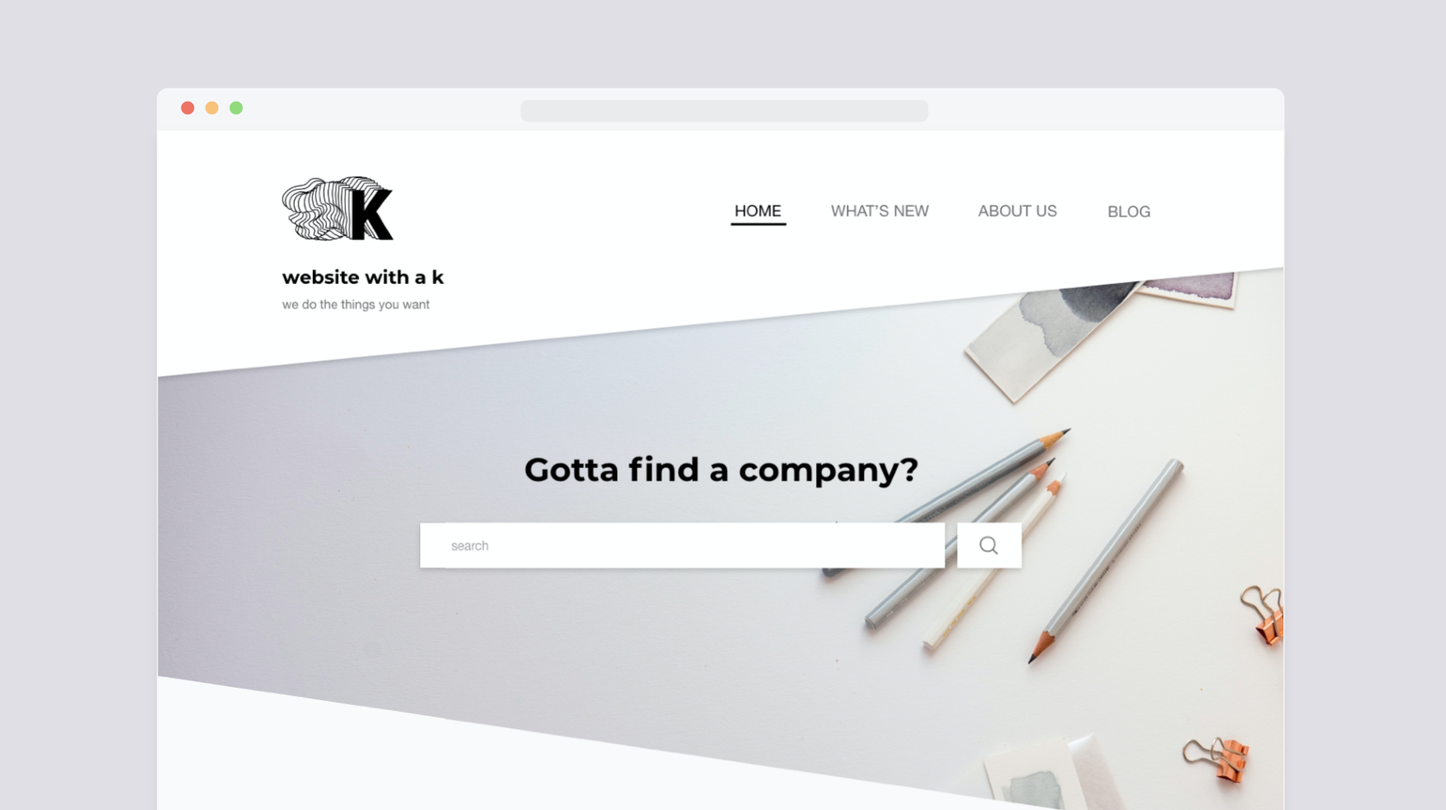
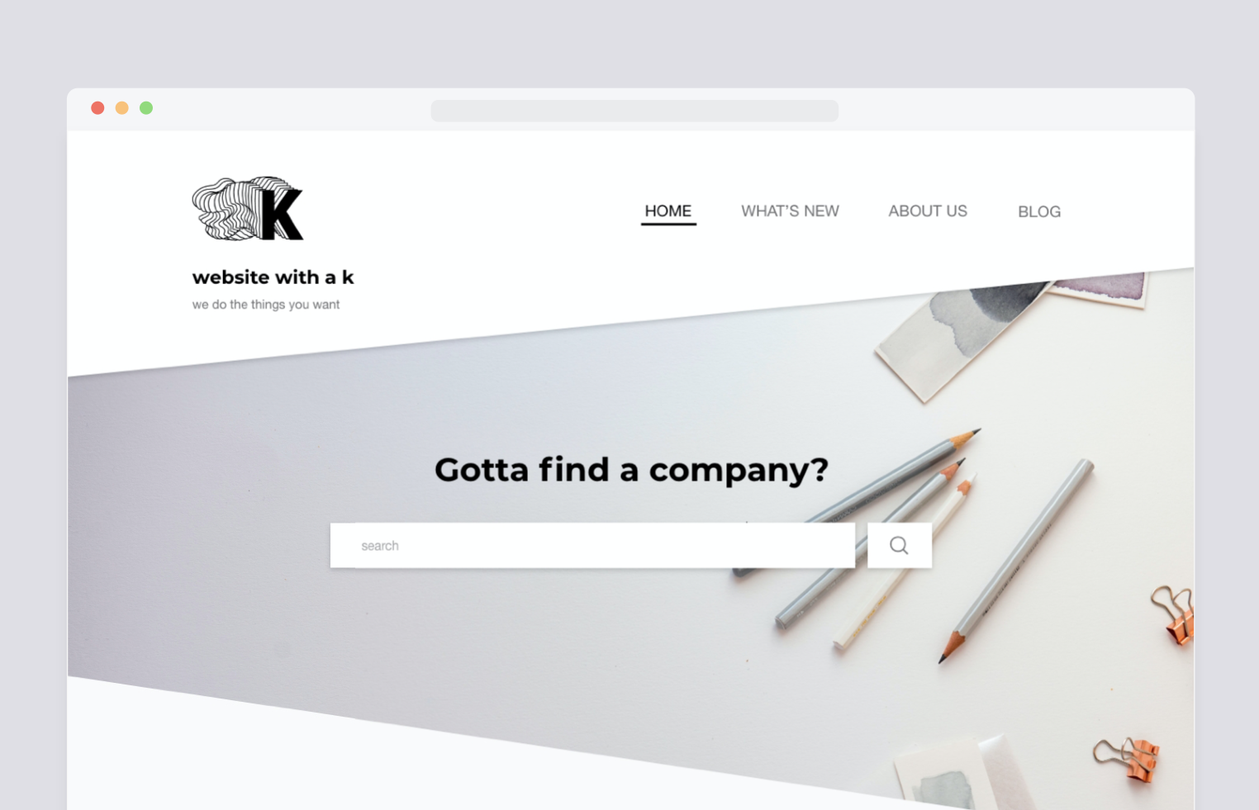
Add files via upload

diff --git a/css/global.css b/css/global.css
@@ -1,1 +1,1 @@
-*{margin:0;padding:0;box-sizing:border-box}:root{--black: #1b1c1e;--cyan: royalblue;--magenta: #f31969;--yellow: orange;--offwhite: #f2e8db;--white: #f4f4f4;--accent: grey;--dark-foreground: #2c2d30;--light-foreground: #fff;--border-color: var(--accent);--global-font-sans: -apple-system, system-ui, BlinkMacSystemFont, "Segoe UI", Roboto, Helvetica, Arial, sans-serif;--global-font-serif: "Georgia", serif;--global-font-primary: "bc-ludva", Helvetica, sans-serif;--global-font-secondary: "space-mono", monospace;--global-font-link: "space-mono", monospace;--global-font-primary: system-ui;--global-font-secondary: system-ui;--global-font-link: system-ui;--laptop: 4vmax;--tablet: 1.5em}html{background-color:var(--black);scroll-behavior:smooth;-webkit-text-size-adjust:100%;pointer-events:auto;max-width:2440px;font-size:14px;-moz-osx-font-smoothing:grayscale;-webkit-font-smoothing:antialiased !important;-webkit-text-size-adjust:100%;-moz-text-size-adjust:100%;text-size-adjust:100%}body{background-color:var(--background-color-primary);transition:background-color 1s ease;font-family:var(--global-font-sans);color:var(--font-color);line-height:1.4;outline:12px solid var(--black);outline-offset:-10px;border-radius:35px;overflow-x:hidden}@media(max-width: 768px){body{outline:6px solid var(--black);outline-offset:-5px;border-radius:20px}}header{z-index:100;width:100%;padding:var(--laptop);padding-right:2em;top:0}header .site-title{margin-bottom:1rem}header .active-title{margin-left:1rem}@media(max-width: 768px){header{padding:var(--tablet)}}@media(max-width: 425px){header{position:relative}header .site-title:after{content:"."}header .active-title{display:none}}nav{justify-content:space-between;margin-bottom:1em}nav ul a{font-family:var(--global-font-link);text-transform:capitalize;font-weight:400;padding-bottom:.25rem}nav ul li{list-style-type:none;display:inline-block;padding-right:1em;line-height:2}.display,h1,h2,h3,h4,h5,h6{font-family:var(--global-font-primary);font-weight:400}.display,h1,.h1,h2,.h2,h3,.h3{line-height:1.2}h1,.h1{font-size:3.999rem}@media(max-width: 768px){h1,.h1{font-size:56px}}.display{font-size:94px}@media(max-width: 768px){.display{font-size:56px}}h2,.h2{font-size:2.999rem}@media(max-width: 768px){h2,.h2{font-size:36px}}h3,.h3{font-size:2.333rem}@media(max-width: 768px){h3,.h3{font-size:28px}}h4,.h4,h5,.h5,h6,.h6{font-size:2rem;letter-spacing:.5px;text-transform:uppercase}@media(max-width: 768px){h4,.h4,h5,.h5,h6,.h6{font-size:24px}}h5,.h5{font-size:1.666rem}@media(max-width: 768px){h5,.h5{font-size:20px}}h6,.h6{font-size:1.166rem}@media(max-width: 768px){h6,.h6{font-size:14px}}p,q{font-family:var(--global-font-secondary);margin:1rem 0;max-width:625px}p:first-child,q:first-child{margin-top:0}p:last-child,q:last-child{margin-bottom:0}a{cursor:pointer !important;text-decoration:none;font-family:var(--global-font-link);font-weight:400;margin-right:1em}a:before{content:"   →";color:rgba(0,0,0,0);font-family:var(--global-font-sans);margin-right:-1em;transition:.5s all}a:hover{margin-right:0}a:hover:before{color:inherit;margin-right:0}@media(max-width: 768px){a{margin-right:0}a:before{display:none}}a .huge{white-space:nowrap;font-size:15vmin;font-weight:700;text-transform:uppercase;font-family:var(--global-font-primary);margin-right:-1rem;margin-top:-0.15em}a .huge:hover{margin-left:1rem}a,p,li{-webkit-user-select:none;-moz-user-select:none;user-select:none}q{quotes:"“" "”" "“" "”";font-family:var(--global-font-serif);letter-spacing:.5px;font-style:italic;display:block;padding:1.5em}q::before,q::after{font-family:inherit;display:block;margin-left:-0.25rem;font-size:2.999rem;line-height:0;padding:1rem 0;font-style:normal}q::before{content:open-quote;margin-bottom:-0.5rem}q::after{content:no-close-quote;display:none}q.noquote::before,q.noquote::after{display:none}h1,h2,h3,h4,h5,h6,p,q,a{transition:all .5s;overflow:hidden}img{-o-object-fit:cover;object-fit:cover;height:auto;max-height:100%;border-radius:4px}.paren::before,.paren::after{content:"(";margin:0 2px}.paren::after{content:")"}@media(prefers-reduced-motion: no-preference){div>*,h1,a,p,img{animation-duration:1.5s;animation-timing-function:ease;animation-fill-mode:forwards;animation-name:moveInUp}}@keyframes moveInUp{0%{transform:translateY(-1em);opacity:0}100%{transform:translateY(0);opacity:1}}.site-title{font-family:var(--global-font-link);font-weight:700;text-transform:capitalize}.backtotop:before{content:"↑\a";display:block;font-family:var(--global-font-sans);white-space:pre-wrap;color:var(--border-color);margin:unset}.backtotop{color:inherit;border:1px solid var(--border-color);position:fixed;bottom:0;right:0;height:3rem;width:3rem;margin:var(--tablet);padding:.75em;font-size:1em;text-align:center;transition:.5s;border-radius:100%;z-index:100}.backtotop:hover{background-color:var(--black);margin:var(--tablet)}.backtotop:hover:before{color:#fff;mix-blend-mode:difference}section,.section{position:relative;width:100%;padding:var(--laptop);padding-top:calc(2*var(--laptop))}section .section-inner,.section .section-inner{padding-top:var(--tablet)}section .section-narrow,.section .section-narrow{max-width:920px;margin:0 auto}section .cover>img,.section .cover>img{width:100%;max-height:90vh}@media(max-width: 768px){section,.section{padding:var(--tablet);padding-top:calc(3.5*var(--tablet))}section .cover,.section .cover{margin:auto -0.5em}}details{height:calc(3.5*var(--tablet))}details summary{cursor:pointer;width:-moz-max-content;width:max-content}@media(min-width: 425px){details[open] summary{display:none}}.hero{padding:var(--laptop);padding-top:15em;padding-bottom:5em;position:relative;z-index:99}.hero h1,.hero p{inline-size:auto;overflow-wrap:break-word}.heroimg{padding:var(--laptop);padding-top:10em;padding-bottom:0}.heroimg img{width:100%;max-height:85vh}@media(max-width: 768px){.hero,.heroimg{padding:var(--tablet);padding-top:7em}}@media(max-width: 425px){.hero,.heroimg{padding-top:1em}}.submenu{position:sticky;position:-webkit-sticky;top:0;margin:0 var(--laptop);padding:2em 0;z-index:100}.submenu a{text-transform:auto;letter-spacing:1px;font-size:12px}@media(max-width: 768px){.submenu{margin:0 1.5em;padding:1rem 0}.submenu .button{margin-top:auto;margin:0 .25em .5em 0}}.gallery{padding:0;padding:3vmax;padding-top:2em}.gallery *>img{width:100%;margin:0 auto}@media(max-width: 768px){.gallery *>img{padding:0;border-radius:0}}.gallery div{padding:0;margin:0;margin-right:0 -1rem}.gallery div *:last-child{margin-bottom:0}@media(max-width: 768px){.gallery div *{margin:0}}@media(max-width: 768px){.gallery{padding:0}}.portfolio-container{margin:0 -1vmax;margin-top:2em;display:grid;gap:2vmax;grid-template-columns:auto auto auto}@media(max-width: 768px){.portfolio-container{display:unset;display:block;margin:0 -2vmax;margin-top:2em}}.portfolio-container div,.portfolio-container img{width:100%;max-height:100%}.portfolio-container div a,.portfolio-container img a{all:revert}.portfolio-container div a:before,.portfolio-container img a:before{display:none !important}.portfolio-container div a:after,.portfolio-container img a:after{content:"Case Study ↗";display:inline;position:absolute;left:1vmax;z-index:98;display:flex;margin-top:calc(-2vmax - 4em);border:1px solid var(--border);border-radius:20px;padding:.5em 1em;background-color:var(--foreground-color);font-family:var(--global-font-secondary);text-align:center;font-size:12px;color:var(--border-color);transition:.5s}@media(min-width: 768px){.portfolio-container div img,.portfolio-container img img{margin-bottom:1.9vmax}}@media(max-width: 768px){.portfolio-container div,.portfolio-container img{left:1rem}}.notebox>div{background-color:var(--foreground-color);margin:.25em .25em 0 0;padding:1em;border:1px solid var(--white);border-radius:15px;flex-basis:320px;flex-grow:1;display:flex;flex-direction:column;justify-content:space-between;transition:all .25s}.notebox>div img{align-self:flex-end;width:100%}.notebox>div img,.notebox>div q{max-width:625px}.notebox>div a{margin-top:1em;z-index:99}.notebox>div q{background-color:unset}.notebox>div p:first-of-type{-moz-text-align-last:justify;text-align-last:justify}.notebox>div:nth-of-type(6n+1){flex-basis:50%}.notebox>div:after{content:"";display:block;position:absolute;top:0;right:0;bottom:0;left:0;border-radius:14px;z-index:98;background-color:rgba(0,0,0,0);mix-blend-mode:difference;transition:.25s all ease}.notebox>div:hover a{color:var(--offwhite)}.notebox>div:hover:after{background-color:var(--white)}.notebox>div.flex-start{justify-content:flex-start}.button,summary{display:inline-block;border:1px solid var(--border-color);border-radius:20px;padding:.5em 1em;margin:0;margin-left:.5em;margin-bottom:1em;background-color:var(--background-color-primary);align-self:flex-start;font-family:var(--global-font-sans);text-align:center;font-size:.85rem}.button:hover,summary:hover{padding-right:-1em;color:var(--background-color-primary);background:var(--border-color)}.button:first-of-type,summary:first-of-type{margin-left:0}.halves>*{width:49.75%;margin-bottom:.5rem}@media(max-width: 768px){.keephalf>*{width:49.75% !important}.keephalf>*:last-child{margin:0;margin-bottom:.5rem}.keephalf>* a{width:49%}.keephalf>* a:last-child{margin:0;margin-bottom:.5rem}}.thirds>*{width:33.1%}.fourths>*{width:24.75%}.fifths>*{width:19.75%}.sixths>*{width:16.55%}.uneven>*{width:32%}.uneven>*:last-child{width:65%}@media(max-width: 768px){.uneven>*:last-child{width:100%}}.halves,.thirds,.fourths,.fifths,.sixths,.uneven{height:100%;margin:0 auto;flex-direction:row;justify-content:space-between}.halves a,.thirds a,.fourths a,.fifths a,.sixths a,.uneven a{margin-bottom:0}.halves img,.thirds img,.fourths img,.fifths img,.sixths img,.uneven img{height:unset;width:100%}@media(max-width: 768px){.halves,.thirds,.fourths,.fifths,.sixths,.uneven{flex-wrap:wrap}.halves img,.halves a,.halves div,.halves q,.thirds img,.thirds a,.thirds div,.thirds q,.fourths img,.fourths a,.fourths div,.fourths q,.fifths img,.fifths a,.fifths div,.fifths q,.sixths img,.sixths a,.sixths div,.sixths q,.uneven img,.uneven a,.uneven div,.uneven q{width:100%}}.thirds>*,.fourths>*,.fifths>*,.sixths>*{margin-bottom:.5rem}@media(max-width: 1080px){.thirds>*,.fourths>*,.fifths>*,.sixths>*{width:49.75%}.thirds>*:last-child,.fourths>*:last-child,.fifths>*:last-child,.sixths>*:last-child{margin:0;margin-bottom:.5rem}}.grid-container{display:grid;grid-template-columns:repeat(auto-fit, minmax(280px, auto));grid-auto-rows:minmax(50px, 1fr);grid-auto-flow:dense;grid-gap:1em}.grid-container img{width:100%;margin:0 auto;max-height:80vh}.spanall{grid-row:1;grid-column:1/-1}.span2{grid-column-end:span 2;grid-row-end:span 2}.grid-container{margin-top:2em}.halves{grid-template-columns:auto auto}.thirds{grid-template-columns:auto auto auto;grid-auto-flow:row dense}.flex-row{display:flex;flex-direction:row;flex-wrap:wrap}.flex-column{display:flex;flex-direction:column;justify-content:center}.nowrap{flex-wrap:nowrap}.justify-between{justify-content:space-between}.justify-center{justify-content:center;text-align:center}.justify-around{justify-content:space-around}.justify-even{justify-content:space-evenly;text-align:center}.justify-end{justify-content:flex-end}.flex-start{flex-wrap:unset;align-items:flex-start;align-content:flex-start;justify-content:flex-start}.align-center{align-items:center;align-content:center}.stretch{align-items:stretch}.fixed-bottom{position:fixed;bottom:0}.align-bottom{align-self:flex-end}.content-bottom{align-content:flex-end}@media(max-width: 425px){.content-bottom{align-content:space-between}}.float-right{float:right !important}@media(max-width: 768px){.reverseorder{order:2}}@media(max-width: 768px){.media-center{justify-content:center;text-align:center}}.upper{text-transform:uppercase}.lower{all:revert;text-decoration:none;text-transform:lowercase;font-family:var(--global-font-primary)}.color{color:var(--font-color) !important}.full{min-height:100vh}.twothirds{height:75vh}.half{height:50vh;overflow:hidden}.quarter{height:25vh}@media(max-width: 768px){.autoheight,.full,.twothirds{height:auto}}@media(max-height: 768px){.autoheight,.full,.twothirds{height:auto}}@media(max-width: 425px){.autoheight,.full,.twothirds{min-height:revert}}.sticky{position:sticky;position:-webkit-sticky;top:0;z-index:99}.arrowbefore:before{content:"←  "}.arrowafterbefore:before{content:"   →"}.arrowafter:after{content:"   →"}.arrowup:before{content:"↑"}.arrowdown:after{content:"↓"}.arrowbefore:before,.arrowafter:after,.arrowafterbefore:before,.arrowdown:after,.arrowdiag:after{font-family:var(--global-font-sans);font-weight:inherit}.arrowdiag:after{content:" ↗ "}.noarrow>*>a,.noarrow>a,a.noarrow,p>a{margin-right:unset !important}.noarrow>*>a:before,.noarrow>a:before,a.noarrow:before,p>a:before{display:none !important}.noarrow>*>a:hover,.noarrow>a:hover,a.noarrow:hover,p>a:hover{color:var(--font-color)}.separator{display:flex;flex-direction:column;justify-content:center;border-bottom:1px solid var(--border-color);width:100%;margin:1em 0}.submenuseparator{border-bottom:1px solid var(--border-color);margin:0 var(--laptop);display:flex;flex-direction:row}@media(max-width: 768px){.submenuseparator{margin:var(--tablet)}}.outline{outline:1px solid var(--font-color)}footer,#footer{width:100%;position:relative;bottom:0;padding-bottom:5em;padding:0 var(--laptop)}footer *,#footer *{color:var(--font-color)}footer p,footer a,#footer p,#footer a{letter-spacing:1px}footer .global-footer-container,#footer .global-footer-container{margin:0 auto;text-align:left}footer .global-footer-container .site-title,#footer .global-footer-container .site-title{font-size:1.166rem;margin-bottom:-1em;flex-wrap:nowrap;align-items:baseline}footer .global-footer-container .site-title p,#footer .global-footer-container .site-title p{margin-right:1em;min-width:-moz-max-content;min-width:max-content}footer .global-footer-container nav,#footer .global-footer-container nav{justify-content:flex-end}footer .global-footer-container .footer-links,#footer .global-footer-container .footer-links{justify-content:flex-start}footer .global-footer-container .section-inner:first-of-type,#footer .global-footer-container .section-inner:first-of-type{padding-left:0}@media(max-width: 768px){footer .global-footer-container,#footer .global-footer-container{flex-flow:column wrap}footer .global-footer-container .site-title,#footer .global-footer-container .site-title{margin-bottom:1em}footer .global-footer-container .footer-links>li,#footer .global-footer-container .footer-links>li{display:block;padding-bottom:.5rem;text-align:right}}footer .copyright,#footer .copyright{margin:0;font-size:.916rem}@media(max-width: 768px){footer,#footer{justify-content:center;margin-top:1em;padding-left:1em;padding-right:1em;min-height:100vh;justify-content:space-around}footer .home-footer,footer .contacts,footer .copyright,#footer .home-footer,#footer .contacts,#footer .copyright{max-width:520px;margin:0 auto}footer .home-footer .social-links a,footer .contacts .social-links a,footer .copyright .social-links a,#footer .home-footer .social-links a,#footer .contacts .social-links a,#footer .copyright .social-links a{margin:auto;padding:0 .5rem}footer .copyright,#footer .copyright{margin:0}}@media(max-width: 425px){footer .global-footer-container,footer div,#footer .global-footer-container,#footer div{width:100%}}.color-cyan{--background-color-primary: var(--cyan)}.color-mag{--background-color-primary: var(--magenta)}.color-yellow{--background-color-primary: var(--yellow);--border-color: var(--black)}.color-black,.color-cyan,.color-mag{--font-color: var(--offwhite);--border-color: var(--offwhite)}.color-black h1,.color-black h2,.color-black h3,.color-black h4,.color-black h5,.color-black h6,.color-black a,.color-black p,.color-black q,.color-cyan h1,.color-cyan h2,.color-cyan h3,.color-cyan h4,.color-cyan h5,.color-cyan h6,.color-cyan a,.color-cyan p,.color-cyan q,.color-mag h1,.color-mag h2,.color-mag h3,.color-mag h4,.color-mag h5,.color-mag h6,.color-mag a,.color-mag p,.color-mag q{color:var(--font-color)}.color-cyan,.color-mag,.color-yellow{--foreground-color: var(--background-color-primary)}.color-cyan h1,.color-cyan h2,.color-cyan h3,.color-cyan h4,.color-cyan h5,.color-cyan h6,.color-cyan a,.color-cyan p,.color-cyan q,.color-mag h1,.color-mag h2,.color-mag h3,.color-mag h4,.color-mag h5,.color-mag h6,.color-mag a,.color-mag p,.color-mag q,.color-yellow h1,.color-yellow h2,.color-yellow h3,.color-yellow h4,.color-yellow h5,.color-yellow h6,.color-yellow a,.color-yellow p,.color-yellow q{color:var(--font-color)}.color-black{--background-color-primary: var(--black);--foreground-color: var(--dark-foreground);--border-color: var(--accent)}.color-black a{color:var(--accent)}.color-white{--background-color-primary: var(--white);--foreground-color: var(--light-foreground);--font-color: var(--black)}.color-white p,.color-white q{color:var(--font-color)}.color-white a{color:var(--accent)}.accent{color:var(--accent) !important}.box-shadow{box-shadow:#d3d3d3 0px 0px 2em}.blend{mix-blend-mode:difference}.multiply{mix-blend-mode:multiply}.hide{display:none}@media(max-width: 768px){.mobilehide{display:none}}.transparent{opacity:0}
+*{margin:0;padding:0;box-sizing:border-box}:root{--black: #1b1c1e;--cyan: royalblue;--magenta: #f31969;--yellow: orange;--offwhite: #f2e8db;--white: #f4f4f4;--accent: grey;--dark-foreground: #2c2d30;--light-foreground: #fff;--border-color: var(--accent);--global-font-sans: -apple-system, system-ui, BlinkMacSystemFont, "Segoe UI", Roboto, Helvetica, Arial, sans-serif;--global-font-serif: "Georgia", serif;--global-font-primary: "bc-ludva", Helvetica, sans-serif;--global-font-secondary: "space-mono", monospace;--global-font-link: "space-mono", monospace;--global-font-primary: system-ui;--global-font-secondary: system-ui;--global-font-link: system-ui;--laptop: 4vmax;--tablet: 1.5em}html{background-color:var(--black);scroll-behavior:smooth;-webkit-text-size-adjust:100%;pointer-events:auto;max-width:2440px;font-size:14px;-moz-osx-font-smoothing:grayscale;-webkit-font-smoothing:antialiased !important;-webkit-text-size-adjust:100%;-moz-text-size-adjust:100%;text-size-adjust:100%}body{background-color:var(--background-color-primary);transition:background-color 1s ease;font-family:var(--global-font-sans);color:var(--font-color);line-height:1.4;outline:12px solid var(--black);outline-offset:-10px;border-radius:35px;overflow-x:hidden}@media(max-width: 768px){body{outline:unset;border-radius:0}}header{z-index:100;width:100%;padding:var(--laptop);padding-right:2em;padding-top:calc(var(--laptop) + var(--tablet));top:0}header .site-title{margin-bottom:1rem}header .active-title{margin-left:1rem}@media(max-width: 768px){header{padding:var(--tablet);padding-top:var(--laptop)}}@media(max-width: 425px){header{position:relative}header .site-title:after{content:"."}header .active-title{display:none}}nav{justify-content:space-between;margin-bottom:1em}nav ul a{font-family:var(--global-font-link);text-transform:capitalize;font-weight:400;padding-bottom:.25rem}nav ul li{list-style-type:none;display:inline-block;padding-right:1em;line-height:2}.display,h1,h2,h3,h4,h5,h6{font-family:var(--global-font-primary);font-weight:400}.display,h1,.h1,h2,.h2,h3,.h3{line-height:1.2}h1,.h1{font-size:3.999rem}@media(max-width: 768px){h1,.h1{font-size:56px}}.display{font-size:94px}@media(max-width: 768px){.display{font-size:56px}}h2,.h2{font-size:2.999rem}@media(max-width: 768px){h2,.h2{font-size:36px}}h3,.h3{font-size:2.333rem}@media(max-width: 768px){h3,.h3{font-size:28px}}h4,.h4,h5,.h5,h6,.h6{font-size:2rem;letter-spacing:.5px;text-transform:uppercase}@media(max-width: 768px){h4,.h4,h5,.h5,h6,.h6{font-size:24px}}h5,.h5{font-size:1.666rem}@media(max-width: 768px){h5,.h5{font-size:20px}}h6,.h6{font-size:1.166rem}@media(max-width: 768px){h6,.h6{font-size:14px}}p,q{font-family:var(--global-font-secondary);margin:1rem 0;max-width:625px}p:first-child,q:first-child{margin-top:0}p:last-child,q:last-child{margin-bottom:0}a{cursor:pointer !important;text-decoration:none;font-family:var(--global-font-link);font-weight:400;margin-right:1em}a:before{content:"   →";color:rgba(0,0,0,0);font-family:var(--global-font-sans);margin-right:-1em;transition:.5s all}a:hover{margin-right:0}a:hover:before{color:inherit;margin-right:0}@media(max-width: 768px){a{margin-right:0}a:before{display:none}}a .huge{white-space:nowrap;font-size:15vmin;font-weight:700;text-transform:uppercase;font-family:var(--global-font-primary);margin-right:-1rem;margin-top:-0.15em}a .huge:hover{margin-left:1rem}a,p,li{-webkit-user-select:none;-moz-user-select:none;user-select:none}q{quotes:"“" "”" "“" "”";font-family:var(--global-font-serif);letter-spacing:.5px;font-style:italic;display:block;padding:1.5em}q::before,q::after{font-family:inherit;display:block;margin-left:-0.25rem;font-size:2.999rem;line-height:0;padding:1rem 0;font-style:normal}q::before{content:open-quote;margin-bottom:-0.5rem}q::after{content:no-close-quote;display:none}q.noquote::before,q.noquote::after{display:none}h1,h2,h3,h4,h5,h6,p,q,a{transition:all .5s;overflow:hidden}img{-o-object-fit:cover;object-fit:cover;height:auto;max-height:100%;border-radius:4px}.paren::before,.paren::after{content:"(";margin:0 2px}.paren::after{content:")"}@media(prefers-reduced-motion: no-preference){div>*,h1,a,p,img{animation-duration:1.5s;animation-timing-function:ease;animation-fill-mode:forwards;animation-name:moveInUp}}@keyframes moveInUp{0%{transform:translateY(-1em);opacity:0}100%{transform:translateY(0);opacity:1}}.site-title{font-family:var(--global-font-link);font-weight:700;text-transform:capitalize}.backtotop:before{content:"↑\a";display:block;font-family:var(--global-font-sans);white-space:pre-wrap;color:var(--border-color);margin:unset}.backtotop{color:inherit;border:1px solid var(--border-color);position:fixed;bottom:0;right:0;height:3rem;width:3rem;margin:var(--tablet);padding:.75em;font-size:1em;text-align:center;transition:.5s;border-radius:100%;z-index:100}.backtotop:hover{background-color:var(--black);margin:var(--tablet)}.backtotop:hover:before{color:#fff;mix-blend-mode:difference}section,.section{position:relative;width:100%;padding:var(--laptop);padding-top:calc(2*var(--laptop))}section .section-inner,.section .section-inner{padding-top:var(--tablet)}section .section-narrow,.section .section-narrow{max-width:920px;margin:0 auto}section .cover>img,.section .cover>img{width:100%;max-height:90vh}@media(max-width: 768px){section,.section{padding:var(--tablet);padding-top:calc(3.5*var(--tablet))}section .cover,.section .cover{margin:auto -0.5em}}details summary{cursor:pointer;width:-moz-max-content;width:max-content}@media(min-width: 425px){details[open] summary{display:none}}.hero{padding:var(--laptop);padding-top:10em;padding-bottom:5em;position:relative;z-index:99}.hero h1,.hero p{inline-size:auto;overflow-wrap:break-word}.heroimg{padding:var(--laptop);padding-top:10em;padding-bottom:0}.heroimg img{width:100%;max-height:85vh}@media(max-width: 768px){.hero,.heroimg{padding:var(--tablet);padding-top:7em}}@media(max-width: 425px){.hero,.heroimg{padding-top:1em}}.submenu{position:sticky;position:-webkit-sticky;top:0;margin:0 var(--laptop);padding:2em 0;z-index:100}.submenu a{text-transform:auto;letter-spacing:1px;font-size:12px}@media(max-width: 768px){.submenu{margin:0 1.5em;padding:1rem 0}.submenu .button{margin-top:auto;margin:0 .25em .5em 0}}.gallery{padding:0;padding:3vmax;padding-top:2em}.gallery *>img{width:100%;margin:0 auto}@media(max-width: 768px){.gallery *>img{padding:0;border-radius:0}}.gallery div{padding:0;margin:0;margin-right:0 -1rem}.gallery div *:last-child{margin-bottom:0}@media(max-width: 768px){.gallery div *{margin:0}}@media(max-width: 768px){.gallery{padding:0}}.portfolio-container{margin:0 -1vmax;margin-top:2em;display:grid;gap:2vmax;grid-template-columns:auto auto auto}@media(max-width: 768px){.portfolio-container{display:unset;display:block;margin:0 -2vmax;margin-top:2em}}.portfolio-container div,.portfolio-container img{width:100%;max-height:100%}.portfolio-container div a,.portfolio-container img a{all:revert}.portfolio-container div a:before,.portfolio-container img a:before{display:none !important}.portfolio-container div a:after,.portfolio-container img a:after{content:"Case Study ↗";display:inline;position:absolute;left:1vmax;z-index:98;display:flex;margin-top:calc(-2vmax - 4em);border:1px solid var(--border);border-radius:20px;padding:.5em 1em;background-color:var(--foreground-color);font-family:var(--global-font-secondary);text-align:center;font-size:12px;color:var(--border-color);transition:.5s}@media(min-width: 768px){.portfolio-container div img,.portfolio-container img img{margin-bottom:1.9vmax}}@media(max-width: 768px){.portfolio-container div,.portfolio-container img{left:1rem}}.notebox>div{background-color:var(--foreground-color);margin:.25em .25em 0 0;padding:1em;border:1px solid var(--white);border-radius:15px;flex-basis:320px;flex-grow:1;display:flex;flex-direction:column;justify-content:space-between;transition:all .25s}.notebox>div img{align-self:flex-end;width:100%}.notebox>div img,.notebox>div q{max-width:625px}.notebox>div a{margin-top:1em;z-index:99}.notebox>div q{background-color:unset}.notebox>div p:first-of-type{-moz-text-align-last:justify;text-align-last:justify}.notebox>div:nth-of-type(6n+1){flex-basis:50%}.notebox>div:after{content:"";display:block;position:absolute;top:0;right:0;bottom:0;left:0;border-radius:14px;z-index:98;background-color:rgba(0,0,0,0);mix-blend-mode:difference;transition:.25s all ease}.notebox>div:hover a{color:var(--offwhite)}.notebox>div:hover:after{background-color:var(--white)}.notebox>div.flex-start{justify-content:flex-start}.button,summary{display:inline-block;border:1px solid var(--border-color);border-radius:20px;padding:.5em 1em;margin:0;margin-left:.5em;margin-bottom:1em;background-color:var(--background-color-primary);align-self:flex-start;font-family:var(--global-font-sans);text-align:center;font-size:.85rem}.button:hover,summary:hover{padding-right:-1em;color:var(--background-color-primary);background:var(--border-color)}.button:first-of-type,summary:first-of-type{margin-left:0}.halves>*{width:49.75%;margin-bottom:.5rem}@media(max-width: 768px){.keephalf>*{width:49.75% !important}.keephalf>*:last-child{margin:0;margin-bottom:.5rem}.keephalf>* a{width:49%}.keephalf>* a:last-child{margin:0;margin-bottom:.5rem}}.thirds>*{width:33.1%}.fourths>*{width:24.75%}.fifths>*{width:19.75%}.sixths>*{width:16.55%}.uneven>*{width:32%}.uneven>*:last-child{width:65%}@media(max-width: 768px){.uneven>*:last-child{width:100%}}.halves,.thirds,.fourths,.fifths,.sixths,.uneven{height:100%;margin:0 auto;flex-direction:row;justify-content:space-between}.halves a,.thirds a,.fourths a,.fifths a,.sixths a,.uneven a{margin-bottom:0}.halves img,.thirds img,.fourths img,.fifths img,.sixths img,.uneven img{height:unset;width:100%}@media(max-width: 768px){.halves,.thirds,.fourths,.fifths,.sixths,.uneven{flex-wrap:wrap}.halves img,.halves a,.halves div,.halves q,.thirds img,.thirds a,.thirds div,.thirds q,.fourths img,.fourths a,.fourths div,.fourths q,.fifths img,.fifths a,.fifths div,.fifths q,.sixths img,.sixths a,.sixths div,.sixths q,.uneven img,.uneven a,.uneven div,.uneven q{width:100%}}.thirds>*,.fourths>*,.fifths>*,.sixths>*{margin-bottom:.5rem}@media(max-width: 1080px){.thirds>*,.fourths>*,.fifths>*,.sixths>*{width:49.75%}.thirds>*:last-child,.fourths>*:last-child,.fifths>*:last-child,.sixths>*:last-child{margin:0;margin-bottom:.5rem}}.grid-container{display:grid;grid-template-columns:repeat(auto-fit, minmax(280px, auto));grid-auto-rows:minmax(50px, 1fr);grid-auto-flow:dense;grid-gap:1em}.grid-container img{width:100%;margin:0 auto;max-height:80vh}.spanall{grid-row:1;grid-column:1/-1}.span2{grid-column-end:span 2;grid-row-end:span 2}.grid-container{margin-top:2em}.halves{grid-template-columns:auto auto}.thirds{grid-template-columns:auto auto auto;grid-auto-flow:row dense}.flex-row{display:flex;flex-direction:row;flex-wrap:wrap}.flex-column{display:flex;flex-direction:column;justify-content:center}.nowrap{flex-wrap:nowrap}.justify-between{justify-content:space-between}.justify-center{justify-content:center;text-align:center}.justify-around{justify-content:space-around}.justify-even{justify-content:space-evenly;text-align:center}.justify-end{justify-content:flex-end}.flex-start{flex-wrap:unset;align-items:flex-start;align-content:flex-start;justify-content:flex-start}.align-center{align-items:center;align-content:center}.stretch{align-items:stretch}.fixed-bottom{position:fixed;bottom:0}.align-bottom{align-self:flex-end}.content-bottom{align-content:flex-end}@media(max-width: 425px){.content-bottom{align-content:space-between}}.float-right{float:right !important}@media(max-width: 768px){.reverseorder{order:2}}@media(max-width: 768px){.media-center{justify-content:center;text-align:center}}.upper{text-transform:uppercase}.lower{all:revert;text-decoration:none;text-transform:lowercase;font-family:var(--global-font-primary)}.color{color:var(--font-color) !important}.full{min-height:100vh}.twothirds{height:75vh}.half{height:50vh;overflow:hidden}.quarter{height:25vh}@media(max-width: 768px){.autoheight,.full,.twothirds{height:auto}}@media(max-height: 768px){.autoheight,.full,.twothirds{height:auto}}@media(max-width: 425px){.autoheight,.full,.twothirds{min-height:revert}}.sticky{position:sticky;position:-webkit-sticky;top:0;z-index:99}.arrowbefore:before{content:"←  "}.arrowafterbefore:before{content:"   →"}.arrowafter:after{content:"   →"}.arrowup:before{content:"↑"}.arrowdown:after{content:"↓"}.arrowbefore:before,.arrowafter:after,.arrowafterbefore:before,.arrowdown:after,.arrowdiag:after{font-family:var(--global-font-sans);font-weight:inherit}.arrowdiag:after{content:" ↗ "}.noarrow>*>a,.noarrow>a,a.noarrow,p>a{margin-right:unset !important}.noarrow>*>a:before,.noarrow>a:before,a.noarrow:before,p>a:before{display:none !important}.noarrow>*>a:hover,.noarrow>a:hover,a.noarrow:hover,p>a:hover{color:var(--font-color)}.separator{display:flex;flex-direction:column;justify-content:center;border-bottom:1px solid var(--border-color);width:100%;margin:1em 0}.submenuseparator{border-bottom:1px solid var(--border-color);margin:0 var(--laptop);display:flex;flex-direction:row}@media(max-width: 768px){.submenuseparator{margin:var(--tablet)}}.outline{outline:1px solid var(--font-color)}footer,#footer{width:100%;position:relative;bottom:0;padding-bottom:5em;padding:0 var(--laptop)}footer *,#footer *{color:var(--font-color)}footer p,footer a,#footer p,#footer a{letter-spacing:1px}footer .global-footer-container,#footer .global-footer-container{margin:0 auto;text-align:left}footer .global-footer-container .site-title,#footer .global-footer-container .site-title{margin-bottom:-1em;flex-wrap:nowrap;align-items:baseline}footer .global-footer-container .site-title p,#footer .global-footer-container .site-title p{font-size:1.166rem;margin-right:1em;min-width:-moz-max-content;min-width:max-content}footer .global-footer-container nav,#footer .global-footer-container nav{justify-content:flex-end}footer .global-footer-container .footer-links,#footer .global-footer-container .footer-links{justify-content:flex-start}footer .global-footer-container .section-inner:first-of-type,#footer .global-footer-container .section-inner:first-of-type{padding-left:0}@media(max-width: 768px){footer .global-footer-container,#footer .global-footer-container{flex-flow:column wrap}footer .global-footer-container .site-title,#footer .global-footer-container .site-title{margin-bottom:1em}footer .global-footer-container .footer-links>li,#footer .global-footer-container .footer-links>li{display:block;padding-bottom:.5rem;text-align:right}}footer .copyright,#footer .copyright{margin:0;font-size:.916rem}@media(max-width: 768px){footer,#footer{justify-content:center;margin-top:1em;padding-left:1em;padding-right:1em;min-height:100vh;justify-content:space-around}footer .home-footer,footer .contacts,footer .copyright,#footer .home-footer,#footer .contacts,#footer .copyright{max-width:520px;margin:0 auto}footer .home-footer .social-links a,footer .contacts .social-links a,footer .copyright .social-links a,#footer .home-footer .social-links a,#footer .contacts .social-links a,#footer .copyright .social-links a{margin:auto;padding:0 .5rem}footer .copyright,#footer .copyright{margin:0}}@media(max-width: 425px){footer .global-footer-container,footer div,#footer .global-footer-container,#footer div{width:100%}}.color-cyan{--background-color-primary: var(--cyan)}.color-mag{--background-color-primary: var(--magenta)}.color-yellow{--background-color-primary: var(--yellow);--border-color: var(--black)}.color-black,.color-cyan,.color-mag{--font-color: var(--offwhite);--border-color: var(--offwhite)}.color-black h1,.color-black h2,.color-black h3,.color-black h4,.color-black h5,.color-black h6,.color-black a,.color-black p,.color-black q,.color-cyan h1,.color-cyan h2,.color-cyan h3,.color-cyan h4,.color-cyan h5,.color-cyan h6,.color-cyan a,.color-cyan p,.color-cyan q,.color-mag h1,.color-mag h2,.color-mag h3,.color-mag h4,.color-mag h5,.color-mag h6,.color-mag a,.color-mag p,.color-mag q{color:var(--font-color)}.color-cyan,.color-mag,.color-yellow{--foreground-color: var(--background-color-primary)}.color-cyan h1,.color-cyan h2,.color-cyan h3,.color-cyan h4,.color-cyan h5,.color-cyan h6,.color-cyan a,.color-cyan p,.color-cyan q,.color-mag h1,.color-mag h2,.color-mag h3,.color-mag h4,.color-mag h5,.color-mag h6,.color-mag a,.color-mag p,.color-mag q,.color-yellow h1,.color-yellow h2,.color-yellow h3,.color-yellow h4,.color-yellow h5,.color-yellow h6,.color-yellow a,.color-yellow p,.color-yellow q{color:var(--font-color)}.color-black{--background-color-primary: var(--black);--foreground-color: var(--dark-foreground);--border-color: var(--accent)}.color-black a{color:var(--accent)}.color-white{--background-color-primary: var(--white);--foreground-color: var(--light-foreground);--font-color: var(--black)}.color-white p,.color-white q{color:var(--font-color)}.color-white a{color:var(--accent)}.accent{color:var(--accent) !important}.box-shadow{box-shadow:#d3d3d3 0px 0px 2em}.blend{mix-blend-mode:difference}.multiply{mix-blend-mode:multiply}.hide{display:none}@media(max-width: 768px){.mobilehide{display:none}}.transparent{opacity:0}

diff --git a/styleguide.html b/styleguide.html
@@ -5,6 +5,8 @@
     <meta charset="utf-8">
     <meta http-equiv="X-UA-Compatible" content="IE=edge">
     <meta name="viewport" content="width=device-width, initial-scale=1">
+    <meta name="theme-color" content="#1b1c1e" />
+
     <meta name="description" content="Styleguide for willowlayland.com">
     <meta name="author" content="Willow Layland">
     <title>Styleguide → Willow Layland</title>
@@ -41,7 +43,7 @@
         </section>
         <span class="submenuseparator"></span>
         <details open class="submenu flex-row">
-            <summary>Chapters</summary>
+            <summary>Jump to</summary>
             <div class="flex-row">
                 <a href="#type" class="button">typography</a>
                 <a href="#images" class="button">images</a>
@@ -117,7 +119,7 @@
             </div>
         </section>
 
-        <section id="images" class="datacolor" data-color="black">
+        <section id="images" class="">
             <h2>Images</h2>
             <div class="grid-container">
                 <img src="https://source.unsplash.com/featured/?color,plant" class="">
@@ -237,7 +239,7 @@
             </div>
         </section>
 
-        <section id="portfolio" class="datacolor" data-color="black">
+        <section id="portfolio">
             <h2>Portfolio Section</h2>
             <div class="">
                 <div class="portfolio-container">
@@ -247,15 +249,12 @@
                         <p>Aut praesentium molestiae sit amet consectetur id consequuntur velit et enim asperiores aut molestias ratione sit molestias iste in galisum maiores! Sit quibusdam omnis cum perferendis officia et molestiae beatae hic dolores architecto.</p> -->
                     </div>
                     <div>
-                        <a href="#">
-                            <img src="https://source.unsplash.com/featured/?color,sky">
-                        </a>
+                        <img src="https://source.unsplash.com/featured/?color,sky">
                         <img src="https://source.unsplash.com/featured/?color,art">
                     </div>
-                    <div> 
-                        <a href="#">
-                            <img src="https://source.unsplash.com/featured/?color,art">
-                        </a>
+                    <div>
+                        <img src="https://source.unsplash.com/featured/?color,art">
+                        <!-- <img src="https://source.unsplash.com/featured/?color,sky"> -->
                     </div>
                 </div>
             </div>

diff --git a/css/global.scss b/css/global.scss
@@ -54,6 +54,8 @@ html {
     -webkit-font-smoothing: antialiased !important;
     -webkit-text-size-adjust: 100%;
     text-size-adjust: 100%;
+
+    // padding: 10px;
 }
 
 body {
@@ -69,10 +71,11 @@ body {
     overflow-x: hidden;
 
     @media (max-width: 768px) {
-        outline: 6px solid var(--black);
-        outline-offset: -5px;
-        border-radius: 20px;
+        outline: unset;
+        border-radius: 0;
     }
+
+    // margin: 10px;
 }
 
 header {
@@ -80,6 +83,7 @@ header {
     width: 100%;
     padding: var(--laptop);
     padding-right: 2em;
+    padding-top: calc(var(--laptop) + var(--tablet));
     top: 0;
 
     .site-title {
@@ -93,6 +97,7 @@ header {
 
     @media (max-width: 768px) {
         padding: var(--tablet);
+        padding-top: var(--laptop);
     }
 
     @media (max-width: 425px) {
@@ -445,9 +450,9 @@ section,.section {
       }
 }
 
-details {
-    height: calc(3.5* var(--tablet));
-}
+// details {
+//     height: calc(4* var(--tablet));
+// }
 
 details summary { 
   cursor: pointer;
@@ -466,7 +471,7 @@ details[open] {
 
 .hero {
     padding: var(--laptop);
-    padding-top: 15em;
+    padding-top: 10em;
     padding-bottom: 5em;
     position: relative;
     z-index: 99;
@@ -1120,15 +1125,13 @@ footer, #footer {
         text-align: left;
 
         .site-title {
-            font-size: 1.166rem;
-
             margin-bottom: -1em; 
-            // flex-grow: 1; 
 
             flex-wrap: nowrap; 
             align-items: baseline;
 
             p {
+                font-size: 1.166rem;
                 margin-right: 1em;
                 min-width: max-content;
             }

diff --git a/index2.html b/index2.html
@@ -11,12 +11,51 @@
     <meta name="author" content="Willow Layland">
     <title>Willow Layland. tryin' stuff.</title>
     <link rel="stylesheet" href="./css/global.css" type="text/css">
-    <link rel="stylesheet" href="./css/hero.css" type="text/css">
     <link rel="stylesheet" href="./css/fonts/fonts.css" type="text/css">
     <link href="./images/favicon.png" rel="icon" type="image/x-icon">
 
     <!-- animsition.css -->
     <link rel="stylesheet" href="./dist/css/animsition.min.css">
+
+    <style>
+        section, footer {
+            padding: 0 15vmin !important;
+            /* max-width: 900px; */
+        }
+
+        footer {
+            padding: 0;
+        }
+        .willowlayland > h1 {
+            font-size: 15vmin; 
+            font-weight: 700; 
+            text-transform: uppercase;
+            line-height: .85; 
+            /* margin-top: -.8em; //same as line */
+            z-index: 7; 
+        }
+
+        .willowlayland > span {
+            text-transform: none; font-weight: 300;
+        }
+        
+
+        @media (max-width: 768px) { 
+            .willowlayland {
+                position: relative;
+                height: unset;
+            }
+        }
+
+        img {
+            position: relative;  
+            /* bottom: 1rem;  */
+            z-index: 0;
+            width: 25%;
+            margin-left: -50%;
+            /* margin-bottom: -200px; */
+        }
+    </style>
 </head>
 
 <body 

diff --git a/about.html b/about.html
@@ -70,6 +70,10 @@
             list-style-type: none;
         }
 
+        .button {
+            margin-right: 1em;
+        }
+
         @media (max-width:1035px) {
             .img {
                 margin-left: 0;
@@ -166,7 +170,7 @@
                         
 
                         <div class="flex-row">
-                            <a><span class="button">Resume</span></a>
+                            <a class="button">Resume</a>
                             <a href="mailto:mail@willowlayland.com"><span  class="button">Email</span> mail@willowlayland.com</a>
                         </div>
                         <span class="arrowafter accent"></span>
